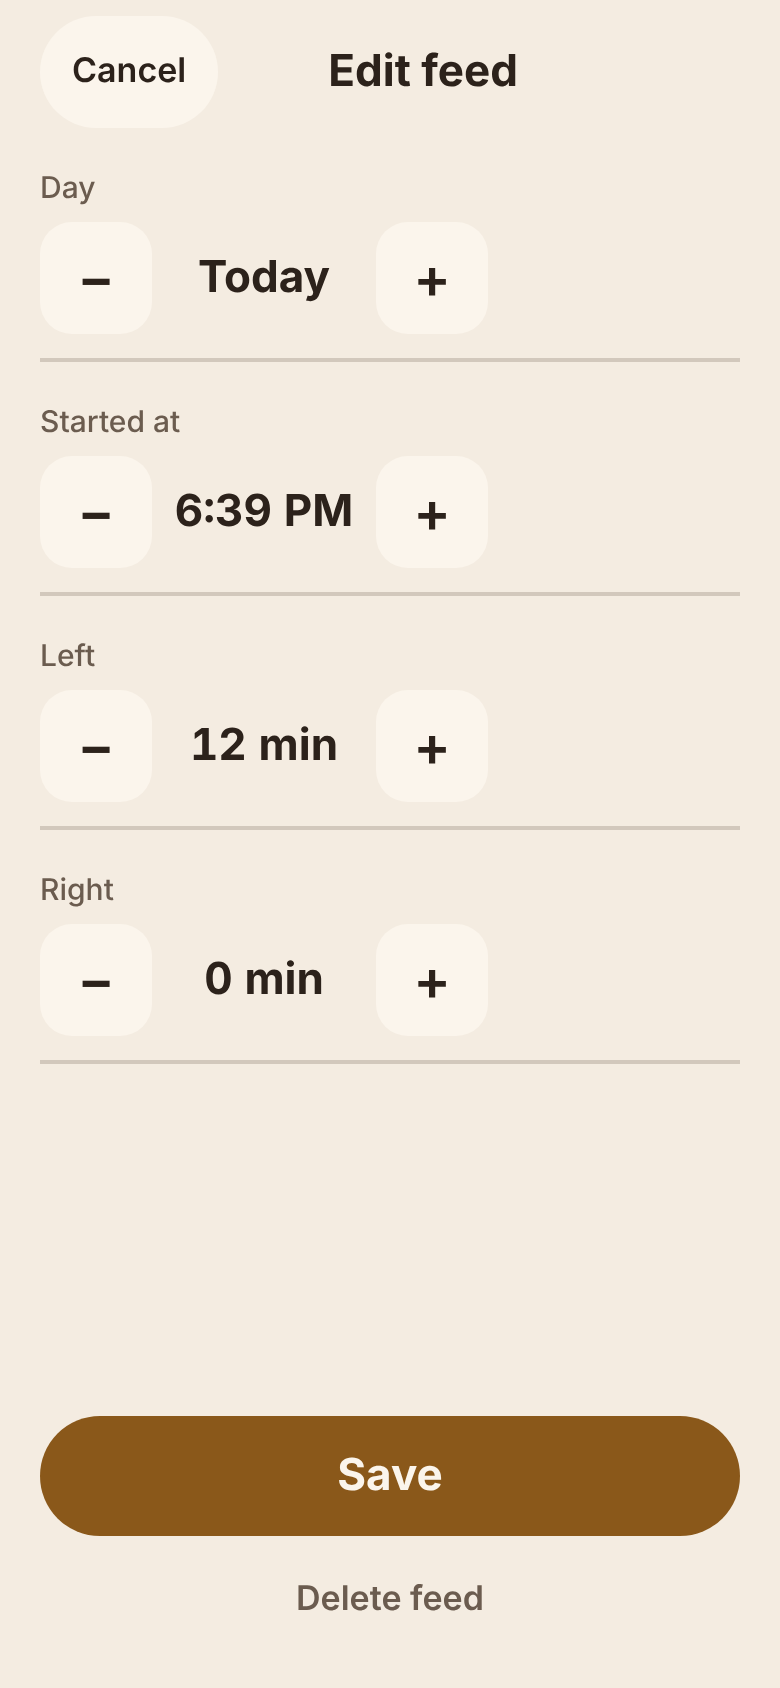
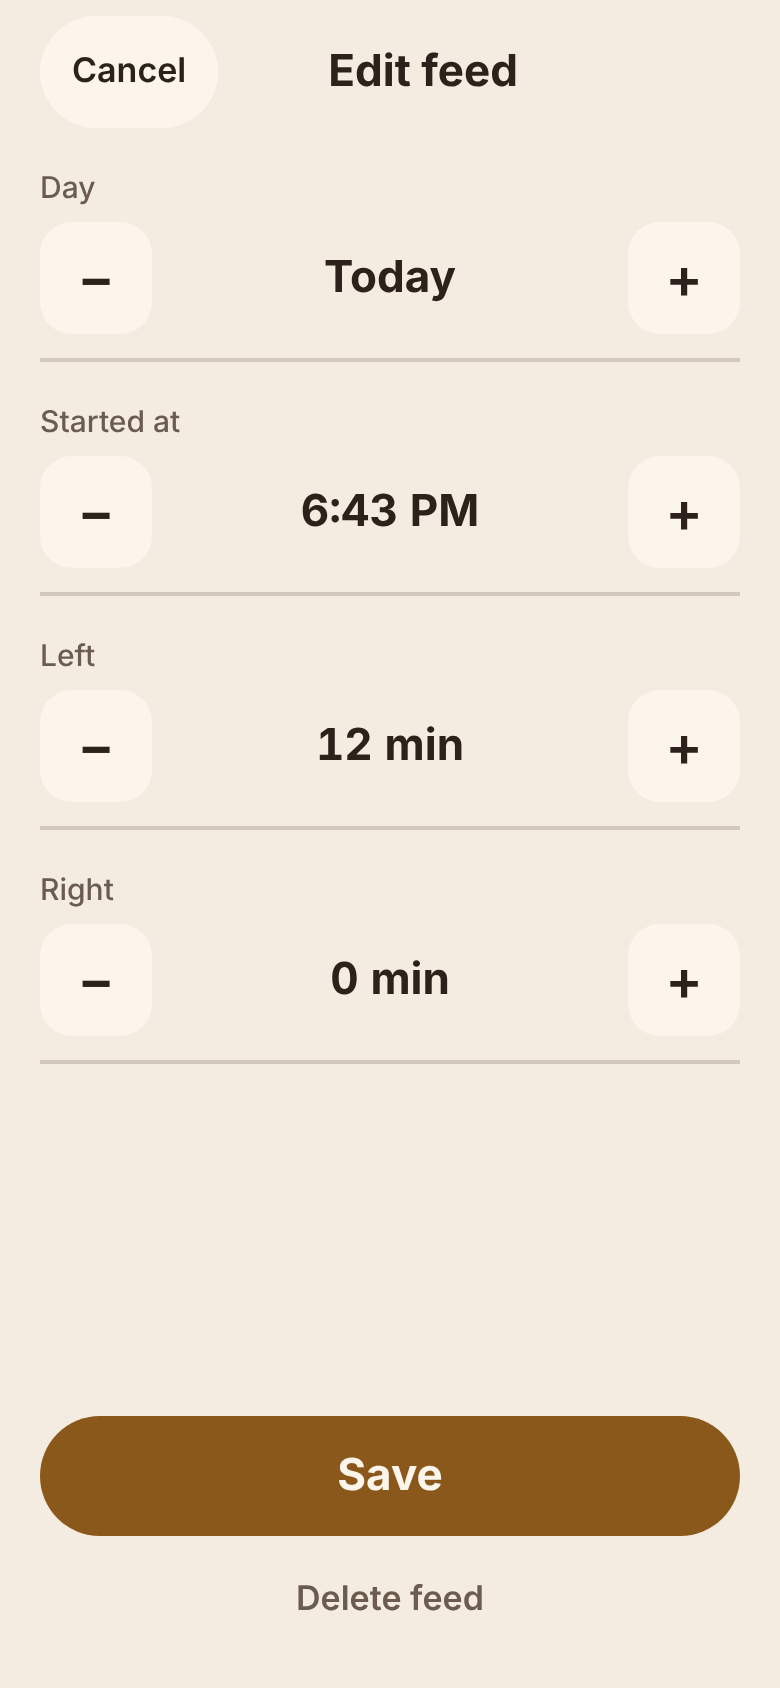
Fix the 13 problems from the round 3 design review
Undo on a start no longer loses a feed after a switch, the snackbar is dim
at night with 56 tall actions, Discard moved away from Settings, the side
buttons stay pinned at any text size, Settings uses the app's own On and
Off control, the due state says so in words, steppers line up, and the
notification and reminder question avoid Huckleberry's wording.

Claude-Session: https://claude.ai/code/session_01Uge6Tu9nfBMVmhGxJKiexz

diff --git a/src/app/index.tsx b/src/app/index.tsx
@@ -2,7 +2,7 @@ import { router } from 'expo-router';
 import { ScrollView, StyleSheet, View } from 'react-native';
 
 import { SideButton, type SideState } from '../components/SideButton';
-import { Card, PillButton, PrimaryButton, QuietButton, Screen, SnackbarSlot, T, TopBar } from '../components/ui';
+import { Card, PillButton, PrimaryButton, QuietButton, Screen, SecondaryButton, SnackbarSlot, T, TopBar } from '../components/ui';
 import {
   activeFeed, dayKey, endSide, feedStart, groupByDay, isDue, lastSaved, looksForgotten, runningSide, sideMs, sideRuns, suggestedSide, totalMs,
 } from '../core/feeds';
@@ -32,7 +32,7 @@ export default function Home() {
     return suggested === side ? 'suggested' : 'rest';
   };
 
-  const showAsk = !active && last !== null && !settings.reminderAsked && permission === 'undetermined';
+  const showAsk = !active && last !== null && !settings.reminderAsked && permission === 'undetermined' && app.snack === null;
   const showStill = active !== null && !app.stillFeedingAnswered && looksForgotten(feeds, settings, now);
   const reminder = permission === 'granted' ? planReminder(feeds, settings, now) : null;
   const due = isDue(feeds, settings, now);
@@ -42,15 +42,9 @@ export default function Home() {
     <Screen>
       <TopBar
         left={<PillButton label="History" onPress={() => router.push('/history')} testID="open-history" />}
-        right={
-          active ? (
-            <QuietButton label="Discard" onPress={app.discard} testID="discard" />
-          ) : (
-            <PillButton label="Settings" onPress={() => router.push('/settings')} testID="open-settings" />
-          )
-        }
+        right={<PillButton label="Settings" onPress={() => router.push('/settings')} testID="open-settings" />}
       />
-      <ScrollView contentContainerStyle={styles.scroll} bounces={false}>
+      <ScrollView style={{ flex: 1 }} contentContainerStyle={styles.scroll}>
         <View style={styles.top}>
           {active ? (
             <Card style={styles.answer}>
@@ -70,6 +64,7 @@ export default function Home() {
               </T>
               {today && <T tone="muted" style={type.label}>Today so far: {today.count} {today.count === 1 ? 'feed' : 'feeds'}, L {mins(today.leftMs)}m, R {mins(today.rightMs)}m</T>}
               {reminder && <T tone="muted" style={type.label}>Reminder at {timeOf(reminder.at)}</T>}
+              {due && <T tone="accent" style={type.label}>Past your {span(settings.intervalMin * 60_000)} reminder time</T>}
             </Card>
           ) : (
             <Card style={styles.answer}>
@@ -82,11 +77,10 @@ export default function Home() {
             <Card>
               <T style={type.title}>Still feeding?</T>
               <T tone="muted" style={[type.label, { marginTop: space.xs }]}>This feed has been going for {span(now - feedStart(active))}.</T>
-              <View style={styles.cardActions}>
-                <QuietButton label="Yes, still feeding" tone="accent" onPress={app.keepFeeding} testID="still-yes" />
-                <QuietButton
+              <View style={styles.cardButtons}>
+                <SecondaryButton label="Yes, still feeding" strong onPress={app.keepFeeding} testID="still-yes" />
+                <SecondaryButton
                   label="Save and fix the time"
-                  tone="ink"
                   testID="still-fix"
                   onPress={() => {
                     const saved = app.done();
@@ -99,34 +93,36 @@ export default function Home() {
 
           {showAsk && (
             <Card>
-              <T style={type.body}>Get a reminder {span(settings.intervalMin * 60_000)} after a feed starts?</T>
-              <View style={styles.cardActions}>
-                <QuietButton label="Turn on" tone="accent" onPress={app.askReminders} testID="reminders-on" />
-                <QuietButton label="Not now" onPress={() => app.updateSettings({ reminderAsked: true })} testID="reminders-not-now" />
+              <T style={type.body}>Want a reminder after each feed starts?</T>
+              <T tone="muted" style={[type.label, { marginTop: space.xs }]}>You choose how long in Settings. It starts at {span(settings.intervalMin * 60_000)}.</T>
+              <View style={styles.cardButtons}>
+                <SecondaryButton label="Turn on" strong onPress={app.askReminders} testID="reminders-on" />
+                <SecondaryButton label="Not now" onPress={() => app.updateSettings({ reminderAsked: true })} testID="reminders-not-now" />
               </View>
             </Card>
           )}
         </View>
-
-        <View style={styles.bottom}>
-          <SnackbarSlot />
-          {active && <PrimaryButton label="Done" onPress={app.done} testID="done" hint="Stops and saves this feed" />}
-          <View style={styles.sides}>
-            {(['L', 'R'] as const).map((s) => (
-              <SideButton key={s} side={s} state={sideState(s)} ms={active ? sideMs(active, s, now) : null} onPress={() => app.tap(s)} />
-            ))}
-          </View>
-        </View>
       </ScrollView>
+
+      <View style={styles.bottom}>
+        <SnackbarSlot />
+        {active && <PrimaryButton label="Done" onPress={app.done} testID="done" hint="Stops and saves this feed" />}
+        <View style={styles.sides}>
+          {(['L', 'R'] as const).map((s) => (
+            <SideButton key={s} side={s} state={sideState(s)} ms={active ? sideMs(active, s, now) : null} onPress={() => app.tap(s)} />
+          ))}
+        </View>
+        {active && <QuietButton label="Discard this feed" onPress={app.discard} testID="discard" style={{ alignSelf: 'center' }} />}
+      </View>
     </Screen>
   );
 }
 
 const styles = StyleSheet.create({
-  scroll: { flexGrow: 1, justifyContent: 'space-between', paddingHorizontal: space.side, gap: space.l },
+  scroll: { paddingHorizontal: space.side, paddingBottom: space.l },
   top: { gap: space.m, paddingTop: space.s },
   answer: { gap: space.xs, minHeight: 168, justifyContent: 'center' },
-  cardActions: { flexDirection: 'row', flexWrap: 'wrap', marginTop: space.s, marginHorizontal: -space.m },
-  bottom: { gap: space.m },
+  cardButtons: { flexDirection: 'row', flexWrap: 'wrap', gap: space.s, marginTop: space.l },
+  bottom: { gap: space.m, paddingHorizontal: space.side, paddingTop: space.s },
   sides: { flexDirection: 'row', gap: space.m },
 });

diff --git a/src/components/ui.tsx b/src/components/ui.tsx
@@ -43,6 +43,17 @@ export function PrimaryButton({ label, onPress, hint, testID }: { label: string;
   );
 }
 
+/** A filled button for choices inside a card. */
+export function SecondaryButton({ label, onPress, testID, strong }: { label: string; onPress: () => void; testID?: string; strong?: boolean }) {
+  const p = usePalette();
+  return (
+    <Pressable testID={testID} onPress={onPress} accessibilityRole="button"
+      style={({ pressed }) => [styles.secondary, { backgroundColor: p.bg, borderColor: strong ? p.accent : 'transparent', opacity: pressed ? 0.75 : 1 }]}>
+      <T tone={strong ? 'accent' : 'ink'} style={{ textAlign: 'center' }}>{label}</T>
+    </Pressable>
+  );
+}
+
 /** A text button that is still a full 56 tall to hit. */
 export function QuietButton({ label, onPress, tone = 'muted', testID, style }: { label: string; onPress: () => void; tone?: Tone; testID?: string; style?: StyleProp<ViewStyle> }) {
   return (
@@ -121,14 +132,14 @@ export function SnackbarSlot() {
   return (
     <Animated.View
       accessibilityLiveRegion="polite"
-      style={[styles.snack, { backgroundColor: p.ink, opacity: y, transform: [{ translateY: y.interpolate({ inputRange: [0, 1], outputRange: [12, 0] }) }] }]}
+      style={[styles.snack, { backgroundColor: p.surface, borderColor: p.accent, opacity: y, transform: [{ translateY: y.interpolate({ inputRange: [0, 1], outputRange: [12, 0] }) }] }]}
     >
-      <Text style={[type.label, { color: p.bg, flex: 1, minWidth: 140 }]}>{snack.message}</Text>
+      <Text style={[type.body, { color: p.ink, flex: 1, minWidth: 140 }]}>{snack.message}</Text>
       <View style={{ flexDirection: 'row', flexWrap: 'wrap' }}>
         {snack.actions.map((a) => (
           <Pressable key={a.label} testID={`snack-${a.label.toLowerCase()}`} accessibilityRole="button" hitSlop={6}
             onPress={() => { hideSnack(); a.onPress(); }} style={styles.snackAction}>
-            <Text style={[type.body, { color: p.bg, textDecorationLine: 'underline' }]}>{a.label}</Text>
+            <Text style={[type.body, { color: p.accent, textDecorationLine: 'underline' }]}>{a.label}</Text>
           </Pressable>
         ))}
       </View>
@@ -138,6 +149,7 @@ export function SnackbarSlot() {
 
 const styles = StyleSheet.create({
   primary: { minHeight: 60, borderRadius: radius.big, alignItems: 'center', justifyContent: 'center', paddingHorizontal: space.xl, paddingVertical: space.m },
+  secondary: { flexGrow: 1, flexBasis: 140, minHeight: TAP, borderRadius: radius.row, borderWidth: 1.5, alignItems: 'center', justifyContent: 'center', paddingHorizontal: space.m, paddingVertical: space.s },
   quiet: { minHeight: TAP, minWidth: TAP, alignItems: 'center', justifyContent: 'center', paddingHorizontal: space.m },
   pill: { minHeight: TAP, minWidth: TAP, borderRadius: TAP / 2, paddingHorizontal: space.l, alignItems: 'center', justifyContent: 'center' },
   topBar: { flexDirection: 'row', alignItems: 'center', paddingHorizontal: space.side, paddingVertical: space.s, gap: space.m, minHeight: TAP + space.l },
@@ -145,6 +157,6 @@ const styles = StyleSheet.create({
   topTitle: { flex: 1, textAlign: 'center' },
   choice: { flexDirection: 'row', borderWidth: 1.5, borderRadius: radius.row, overflow: 'hidden' },
   choiceItem: { flex: 1, minHeight: TAP, alignItems: 'center', justifyContent: 'center', paddingHorizontal: space.m },
-  snack: { borderRadius: radius.row, paddingHorizontal: space.l, paddingVertical: space.s, flexDirection: 'row', alignItems: 'center', flexWrap: 'wrap', gap: space.s },
-  snackAction: { minHeight: 48, minWidth: TAP, justifyContent: 'center', alignItems: 'center', paddingHorizontal: space.s },
+  snack: { borderRadius: radius.row, borderWidth: 1.5, paddingHorizontal: space.l, paddingVertical: space.s, flexDirection: 'row', alignItems: 'center', flexWrap: 'wrap', gap: space.s },
+  snackAction: { minHeight: TAP, minWidth: TAP, justifyContent: 'center', alignItems: 'center', paddingHorizontal: space.s },
 });

diff --git a/src/app/settings.tsx b/src/app/settings.tsx
@@ -1,6 +1,6 @@
 import Constants from 'expo-constants';
 import { router } from 'expo-router';
-import { Linking, ScrollView, Share, StyleSheet, Switch, TextInput, View } from 'react-native';
+import { Linking, ScrollView, Share, StyleSheet, TextInput, View } from 'react-native';
 
 import { Stepper } from '../components/Stepper';
 import { Choice, PillButton, QuietButton, Screen, T, TopBar } from '../components/ui';
@@ -41,20 +41,16 @@ export default function SettingsScreen() {
         </Section>
 
         <Section label="Reminder">
-          <View style={styles.line}>
-            <T style={{ flex: 1 }}>Remind me after a feed starts</T>
-            <Switch
-              testID="reminders-switch"
-              value={settings.remindersOn}
-              onValueChange={(v) => updateSettings({ remindersOn: v, reminderAsked: true })}
-              trackColor={{ true: p.accent, false: line(p) }}
-              thumbColor={p.ink}
-              accessibilityLabel="Remind me after a feed starts"
-            />
-          </View>
+          <T>Remind me after a feed starts</T>
+          <Choice<'on' | 'off'>
+            label="Reminder"
+            value={settings.remindersOn ? 'on' : 'off'}
+            onChange={(v) => updateSettings({ remindersOn: v === 'on', reminderAsked: true })}
+            options={[{ value: 'on', label: 'On' }, { value: 'off', label: 'Off' }]}
+          />
           {settings.remindersOn && (
             <View style={{ gap: space.s }}>
-              <T tone="muted" style={type.label}>Remind me this long after a feed starts</T>
+              <T tone="muted" style={type.label}>After</T>
               <Stepper
                 label="Reminder time"
                 testID="interval"
@@ -120,6 +116,5 @@ const styles = StyleSheet.create({
   body: { paddingHorizontal: space.side, paddingBottom: space.xxl },
   section: { gap: space.m, paddingVertical: space.l, borderBottomWidth: StyleSheet.hairlineWidth * 2 },
   input: { minHeight: TAP, borderRadius: radius.row, paddingHorizontal: space.l },
-  line: { flexDirection: 'row', alignItems: 'center', gap: space.m, minHeight: TAP },
   left: { alignSelf: 'flex-start', paddingHorizontal: 0 },
 });

diff --git a/src/app/history.tsx b/src/app/history.tsx
@@ -50,7 +50,8 @@ export default function History() {
             );
           }
           const f = item.feed;
-          const runs = sideRuns(f, now).map((r) => `${r.side} ${mins(r.ms)}m`).join(' then ');
+          const sideList = sideRuns(f, now);
+          const runs = sideList.length === 1 ? `${sideList[0].side === 'L' ? 'Left' : 'Right'} only` : sideList.map((r) => `${r.side} ${mins(r.ms)}m`).join(' then ');
           return (
             <Pressable
               testID={`feed-row-${f.id}`}
@@ -82,9 +83,9 @@ export default function History() {
 }
 
 const styles = StyleSheet.create({
-  list: { paddingHorizontal: space.side, paddingBottom: space.xl, flexGrow: 1 },
+  list: { paddingHorizontal: space.side, paddingBottom: space.xxl * 2, flexGrow: 1 },
   dayHead: { paddingTop: space.xl, paddingBottom: space.s, paddingHorizontal: space.xs, gap: 2 },
-  row: { flexDirection: 'row', alignItems: 'center', flexWrap: 'wrap', gap: space.m, minHeight: 64, paddingHorizontal: space.l, paddingVertical: space.m },
+  row: { flexDirection: 'row', alignItems: 'center', alignContent: 'center', flexWrap: 'wrap', columnGap: space.m, rowGap: space.xs, minHeight: 64, paddingHorizontal: space.l, paddingVertical: space.m },
   rowFirst: { borderTopLeftRadius: radius.row, borderTopRightRadius: radius.row },
   rowLast: { borderBottomLeftRadius: radius.row, borderBottomRightRadius: radius.row },
   time: { minWidth: 84, fontVariant: ['tabular-nums'] },

diff --git a/src/core/feeds.ts b/src/core/feeds.ts
@@ -33,7 +33,8 @@ export const sideRuns = (f: Feed, now: number): { side: Side; ms: number }[] => 
     if (prev && prev.side === s.side) prev.ms += segMs(s, now);
     else runs.push({ side: s.side, ms: segMs(s, now) });
   }
-  return runs;
+  const real = runs.filter((r) => r.ms >= 30_000);
+  return real.length ? real : runs.slice(-1);
 };
 
 const live = (feeds: Feed[]) => feeds.filter((f) => f.deletedAt === null);
@@ -107,10 +108,12 @@ export interface FeedDraft {
   endedOn: Side;
 }
 
+const editorMinutes = (ms: number) => (ms <= 0 ? 0 : Math.max(1, Math.round(ms / 60_000)));
+
 export const draftFrom = (f: Feed, now: number): FeedDraft => ({
   start: feedStart(f),
-  leftMin: Math.round(sideMs(f, 'L', now) / 60_000),
-  rightMin: Math.round(sideMs(f, 'R', now) / 60_000),
+  leftMin: editorMinutes(sideMs(f, 'L', now)),
+  rightMin: editorMinutes(sideMs(f, 'R', now)),
   endedOn: endSide(f),
 });
 

diff --git a/src/core/__tests__/reminder.test.ts b/src/core/__tests__/reminder.test.ts
@@ -12,13 +12,13 @@ describe('reminder scheduling', () => {
   it('is set her interval after the last feed started', () => {
     const plan = planReminder([saved(0, 'R')], settings, T0 + 20 * MIN)!;
     expect(plan.at).toBe(T0 + 120 * MIN);
-    expect(plan.body).toBe("It has been 2h since Baby's last feed started. Last side: right.");
+    expect(plan.body).toBe("It has been 2h since Baby's last feed started. Ended on the right.");
   });
 
   it('uses her own interval and the baby name', () => {
     const plan = planReminder([saved(0, 'L')], { ...settings, intervalMin: 165, babyName: 'Daphne' }, T0)!;
     expect(plan.at).toBe(T0 + 165 * MIN);
-    expect(plan.body).toBe("It has been 2h 45m since Daphne's last feed started. Last side: left.");
+    expect(plan.body).toBe("It has been 2h 45m since Daphne's last feed started. Ended on the left.");
   });
 
   it('moves when a feed is edited', () => {

diff --git a/src/state/AppState.tsx b/src/state/AppState.tsx
@@ -122,8 +122,18 @@ export function AppStateProvider({ children }: { children: ReactNode }) {
       tick();
       if (!before) {
         showSnack(`Started on the ${sideWord(side)}.`, [
-          { label: 'Undo', onPress: () => commit([], [next.id]) },
+          {
+            label: 'Undo',
+            onPress: () => {
+              const current = feedsRef.current.find((f) => f.id === next.id) ?? next;
+              commit([], [next.id]);
+              showSnack('Feed discarded.', [{ label: 'Undo', onPress: () => commit([current]) }]);
+            },
+          },
         ]);
+      } else {
+        // a switch or pause makes the "Started" snackbar out of date
+        setSnack(null);
       }
     },
     [commit, showSnack],

diff --git a/src/components/Stepper.tsx b/src/components/Stepper.tsx
@@ -104,6 +104,6 @@ const styles = StyleSheet.create({
   row: { flexDirection: 'row', alignItems: 'center', gap: space.s },
   btn: { width: TAP, height: TAP, borderRadius: radius.row, alignItems: 'center', justifyContent: 'center' },
   sign: { fontSize: 28, lineHeight: 32, fontWeight: '600' },
-  valueBox: { minWidth: 96, flexShrink: 1, alignItems: 'center', justifyContent: 'center', minHeight: TAP },
+  valueBox: { flex: 1, alignItems: 'center', justifyContent: 'center', minHeight: TAP },
   input: { minWidth: 72, textAlign: 'center', borderBottomWidth: 2, paddingVertical: 4 },
 });

diff --git a/src/core/reminder.ts b/src/core/reminder.ts
@@ -20,7 +20,7 @@ export function planReminder(feeds: Feed[], settings: Settings, now: number): Re
   if (at <= now) return null;
   return {
     at,
-    body: `It has been ${span(interval)} since ${babyName(settings)}'s last feed started. Last side: ${sideWord(endSide(last))}.`,
+    body: `It has been ${span(interval)} since ${babyName(settings)}'s last feed started. Ended on the ${sideWord(endSide(last))}.`,
   };
 }
 

diff --git a/docs/flow.md b/docs/flow.md
@@ -14,7 +14,7 @@ Original look, decided here so the build can't drift toward Huckleberry: the sid
 | Home: first launch | No feeds yet. | Tap Left or Right. | Top card reads "No feeds yet" and "Tap a side below when Baby starts feeding." No suggested side. | First tap starts the first feed. |
 | Home: idle | A feed has been saved before. | Tap the suggested side (it is highlighted, labelled "Start here"). | Top card: the label "Since Baby's last feed started" (her name once set) over a big "1h 40m", then "Ended on the left", then "Reminder at 4:10" when reminders are on. The other side's button shows "Start here". | Tap starts a feed on that side, with a 6 second "Started on the left" snackbar and **Undo** in case it was a mistap. |
 | Home: reminder due | Her interval has passed since the last feed started and no feed is running (shown whether or not notifications are on). | Tap the suggested side. | The big time turns honey. No alarm styling, no red, no wording about it being time. | Same as idle. |
-| Home: feed running | A feed is being timed. | Tap **Done** to stop and save. | Large timer (total time fed, pauses excluded). The running side's button glows and shows its own time and "Tap to pause"; the other shows its time and "Tap to switch". Done button above the sides, full width. "Started at 3:02" under the timer. A quiet **Discard** text button (56px tall) at the top right; it asks once in the app before throwing the feed away. No reminder is pending while a feed runs. | Done saves. Side taps pause or switch. A wrong start time is fixed after saving, through Edit on the snackbar. |
+| Home: feed running | A feed is being timed. | Tap **Done** to stop and save. | Large timer (total time fed, pauses excluded). The running side's button glows and shows its own time and "Tap to pause"; the other shows its time and "Tap to switch". Done button above the sides, full width. "Started at 3:02" under the timer. A quiet **Discard this feed** button (56px tall) under the side buttons, away from Settings; it discards at once with an Undo snackbar. No reminder is pending while a feed runs. | Done saves. Side taps pause or switch. A wrong start time is fixed after saving, through Edit on the snackbar. |
 | Home: paused | Feeding paused (burp, nappy). | Tap either side to carry on. | Timer stops and dims with "Paused". Both side buttons read "Tap to carry on". Done still available. | Tap a side resumes on that side. |
 | Home: still feeding? | She opens the app and a feed has been running longer than her reminder interval (she may have fallen asleep). | **Yes, still feeding** | A card over the timer: "Still feeding? This feed has been going for 2h 40m." with Yes, still feeding and **Save and fix the time**. | Yes hides the card until the next time the app is opened. Save and fix the time saves the feed and opens the editor so she can set the real minutes. |
 | Home: just saved | The feed was saved a moment ago. | Undo, if it was a mistake. | Snackbar for 6 seconds: "Saved. 18 min, ended on the right." with **Undo** and **Edit**. Home shows the idle state behind it. | Undo puts the feed back exactly as it was when Done was tapped. If it was running, the seconds between Done and Undo count as feeding, because the baby is still on; if it was paused, it stays paused. Edit opens the editor for that feed (this is also where she fixes a start time she forgot). |

diff --git a/docs/ledger.md b/docs/ledger.md
@@ -34,3 +34,21 @@ Confirmed all round 1 fixes. Verdict: one more pass. Ranked problems and what wa
 10. Cut the gap line on every History row. **Done.**
 
 The flow is now carried into the design stage, where a fresh critic rechecks every earlier item along with the screens.
+
+## Round 3: design and build (critic C, fresh, used the web preview and screenshots)
+
+Verdict: one more pass. Confirmed every round 1 and 2 item is built, except one regression and two likeness slips, all listed below.
+
+1. Undo on the "Started" snackbar after a switch threw the feed away for good. **Fixed:** any side tap hides that snackbar, and Undo on a start now shows "Feed discarded" with its own Undo.
+2. The snackbar was a bright cream block at night. **Fixed:** dark surface with a honey outline.
+3. Cyan switch knob in Settings (a Huckleberry colour and a default look). **Fixed:** replaced with the app's own On and Off control.
+4. Snackbar actions were 48 tall. **Fixed:** 56.
+5. Discard sat where Settings sits. **Fixed:** moved under the side buttons; Settings never moves.
+6. "Still feeding?" answers looked like loose text. **Fixed:** two filled 56 tall buttons.
+7. The due state only changed colour. **Fixed:** adds "Past your 2h reminder time" in words.
+8. Editor steppers shifted and sat hard left; sub minute feeds edited as 0. **Fixed:** steppers span the row with a fixed centre; any side with time shows at least 1 minute.
+9. History rows top aligned, repeated the number for one side feeds, last day under the button. **Fixed:** centred rows, "Left only" or "Right only", extra bottom room.
+10. Zero minute stretches in "L 0m then R 0m" and the reminder card arriving with the snackbar. **Fixed:** stretches under 30 seconds are left out; the card waits for the snackbar to go.
+11. At the largest text size the side buttons could be pushed off screen. **Fixed:** only the top part scrolls; the buttons are pinned.
+12. "Last side:" in the notification echoed Huckleberry, and the ask read like a suggested interval. **Fixed:** "Ended on the right."; "Want a reminder after each feed starts? You choose how long in Settings."
+13. Two near identical reminder labels. **Fixed:** the stepper is labelled "After".
